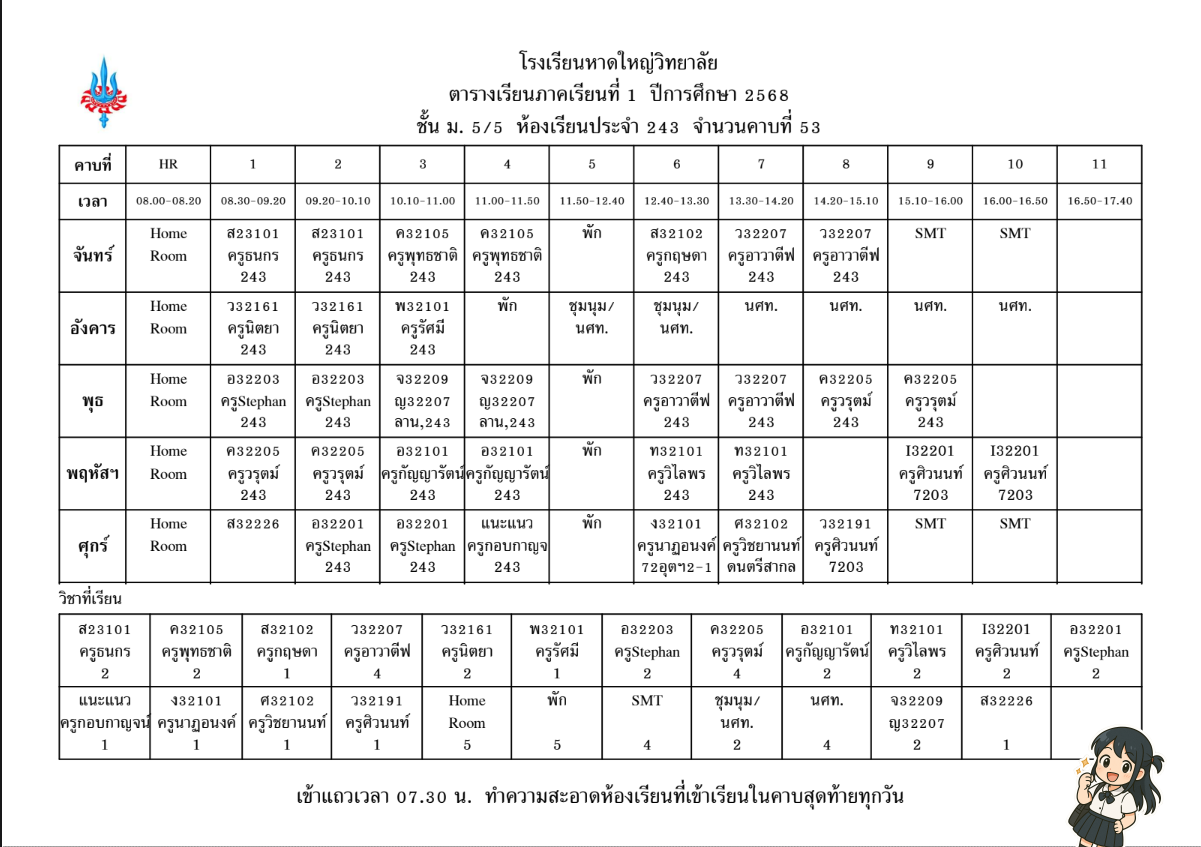
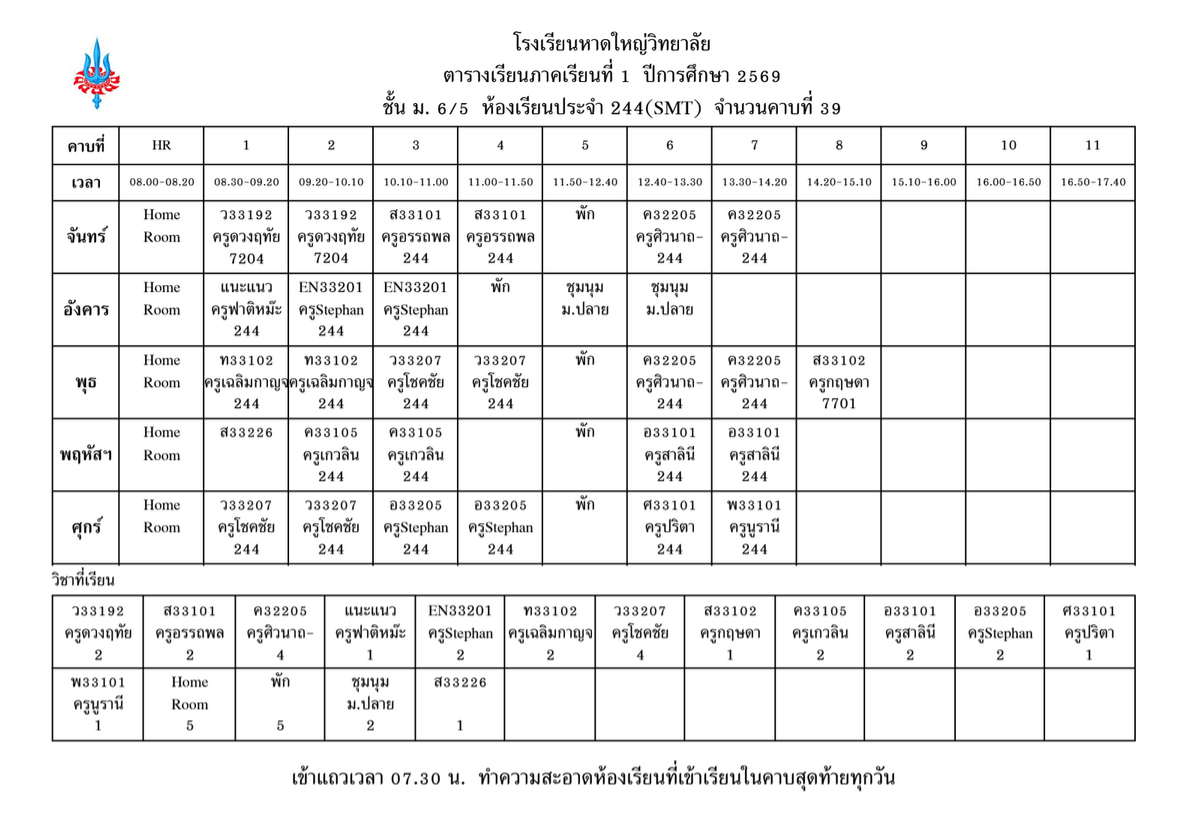
Can the old class to new class

Changed region(s): [[0.0311, 0.0304, 0.9941, 1.0]]

diff --git a/app/about/page.tsx b/app/about/page.tsx
@@ -22,12 +22,12 @@ function page() {
             <section className="py-4 px-6 w-full">
                 <div className="grid gap-8 md:grid-cols-2 items-center w-full">
                     <div className="space-y-4 w-full">
-                        <h2 className="text-3xl font-bold tracking-tight">เกี่ยวกับห้อง ม.5/5</h2>
+                        <h2 className="text-3xl font-bold tracking-tight">เกี่ยวกับห้อง ม.6/5</h2>
                         <p>
-                            ห้อง ม.5/5 เป็นห้องเรียนเฉพาะทางด้านวิทยาศาสตร์ คณิตศาสตร์ และเทคโนโลยี สำหรับนักเรียนชั้นมัธยมศึกษาปีที่ 5 ซึ่งเน้นหลักสูตรขั้นสูงเพื่อเตรียมความพร้อมให้นักเรียนประสบความสำเร็จทางวิชาการในสาขา STEM ในอนาคต
+                            ห้อง ม.6/5 เป็นห้องเรียนเฉพาะทางด้านวิทยาศาสตร์ คณิตศาสตร์ และเทคโนโลยี สำหรับนักเรียนชั้นมัธยมศึกษาปีที่ 5 ซึ่งเน้นหลักสูตรขั้นสูงเพื่อเตรียมความพร้อมให้นักเรียนประสบความสำเร็จทางวิชาการในสาขา STEM ในอนาคต
                         </p>
                         <p>
-                            โดยมีนักเรียน 35 คน ห้องเรียน ม.5/5 มอบสภาพแวดล้อมการเรียนรู้แบบร่วมมือกัน ที่นักเรียนมีส่วนร่วมในกระบวนการเรียนรู้แบบใช้โครงงานเป็นฐาน การสืบค้นทางวิทยาศาสตร์ และนวัตกรรมทางเทคโนโลยี
+                            โดยมีนักเรียน 35 คน ห้องเรียน ม.6/5 มอบสภาพแวดล้อมการเรียนรู้แบบร่วมมือกัน ที่นักเรียนมีส่วนร่วมในกระบวนการเรียนรู้แบบใช้โครงงานเป็นฐาน การสืบค้นทางวิทยาศาสตร์ และนวัตกรรมทางเทคโนโลยี
                         </p>
                         <div className="flex flex-wrap gap-2 pt-2">
                             <Badge variant="outline" className="flex items-center gap-1">
@@ -48,7 +48,7 @@ function page() {
                     <div className="text-center mb-4">
                         <h2 className="text-3xl font-bold tracking-tight">จุดเน้นห้องเรียน SMT</h2>
                         <p className="mt-2 max-w-2xl mx-auto">
-                            ม.5/5 มุ่งเน้นการศึกษาพิเศษในสามด้านหลักของ STEM
+                            ม.6/5 มุ่งเน้นการศึกษาพิเศษในสามด้านหลักของ STEM
                         </p>
                     </div>
 

diff --git a/app/page.tsx b/app/page.tsx
@@ -13,8 +13,8 @@ export default function Home() {
       <div className="px-6 py-4 w-full">
         <div className="my-4 flex flex-col items-center justify-center">
           <img src={Logo.src} alt="Logo" className="w-14 md:w-18" />
-          <h1 className="font-bold text-2xl md:text-4xl my-2">ม.5/5 - โครงการ SMT</h1>
-          <p>แพลตฟอร์มจัดการห้องเรียนสำหรับ ม.5/5 SMT โรงเรียนหาดใหญ่วิทยาลัย ช่วยให้นักเรียนสามารถเช็กข้อมูลสำคัญต่างๆ ของห้องได้อย่างสะดวก รวดเร็ว และทันสมัย</p>
+          <h1 className="font-bold text-2xl md:text-4xl my-2">ม.6/5 - โครงการ SMT</h1>
+          <p>แพลตฟอร์มจัดการห้องเรียนสำหรับ ม.6/5 SMT โรงเรียนหาดใหญ่วิทยาลัย ช่วยให้นักเรียนสามารถเช็กข้อมูลสำคัญต่างๆ ของห้องได้อย่างสะดวก รวดเร็ว และทันสมัย</p>
           <img className="mt-4 w-full max-w-[1100px] object-cover rounded-md" src={Banner.src} alt="Banner" height={630} width={1200} />
         </div>
       </div>

diff --git a/app/classcode/card/ct.tsx b/app/classcode/card/ct.tsx
@@ -96,7 +96,7 @@ export default function ClassroomCards() {
             <div className="py-4 w-full flex flex-col items-center justify-center">
                 <img src={Cynthia.src} alt="Cynthia" className='max-w-[120px]' />
                 <h1 className="font-bold text-xl mb-1 mt-3">กรุณาล็อกอิน</h1>
-                <p className="text-xs">เพื่อเป็นการยืนยันว่าเป็นนักเรียนห้อง ม.5/5</p>
+                <p className="text-xs">เพื่อเป็นการยืนยันว่าเป็นนักเรียนห้อง ม.6/5</p>
             </div>
         );
     }
@@ -106,7 +106,7 @@ export default function ClassroomCards() {
             <div className="py-4 w-full flex flex-col items-center justify-center">
                 <img src={Cynthia.src} alt="Cynthia" className='max-w-[120px]' />
                 <h1 className="font-bold text-xl mb-1 mt-3">ไม่สามารถเข้าถึงข้อมูลได้</h1>
-                <p className="text-xs">คุณไม่ได้อยู่ในห้อง ม.5/5</p>
+                <p className="text-xs">คุณไม่ได้อยู่ในห้อง ม.6/5</p>
             </div>
         );
     }

diff --git a/app/about/slide.tsx b/app/about/slide.tsx
@@ -23,14 +23,14 @@ function Slide() {
                     <SwiperSlide>
                         <img
                             src={B1.src}
-                            alt="Students in M.5/5 classroom"
+                            alt="Students in M.6/5 classroom"
                             className="object-cover max-h-[300px] w-full"
                         />
                     </SwiperSlide>
                     <SwiperSlide>
                         <img
                             src={B2.src}
-                            alt="Students in M.5/5 classroom"
+                            alt="Students in M.6/5 classroom"
                             className="object-cover max-h-[300px] w-full"
                         />
                     </SwiperSlide>

diff --git a/app/components/app-sidebar.tsx b/app/components/app-sidebar.tsx
@@ -59,7 +59,7 @@ export function AppSidebar() {
                                     <img src={Logo.src} alt="Logo" width={600} height={600} />
                                 </div>
                                 <div className="flex flex-col gap-0.5 leading-none">
-                                    <span className="font-semibold">ม.5/5</span>
+                                    <span className="font-semibold">ม.6/5</span>
                                     <span className="text-xs">โรงเรียนหาดใหญ่วิทยาลัย</span>
                                 </div>
                             </Link>

diff --git a/app/components/footer.tsx b/app/components/footer.tsx
@@ -41,7 +41,7 @@ function Footer() {
                     <div className="h-5">
                         <Separator orientation="vertical" />
                     </div>
-                    <p className='text-xs'>© 2567-2568 ทีมพัฒนา ม.5/5</p>
+                    <p className='text-xs'>© 2567-2568 ทีมพัฒนา ม.6/5</p>
                 </div>
                 <div className="h-5 hidden md:block">
                     <Separator orientation="vertical" />

diff --git a/app/manifest.ts b/app/manifest.ts
@@ -6,7 +6,7 @@ export default function manifest(): MetadataRoute.Manifest {
     return {
         name: 'Yorwor67Slash5',
         short_name: 'SMT',
-        description: 'A platform for managing class activities, attendance, and assignments for M.5/5 SMT',
+        description: 'A platform for managing class activities, attendance, and assignments for M.6/5 SMT',
         start_url: '/assignment',
         display: 'standalone',
         background_color: '#ffffff',
